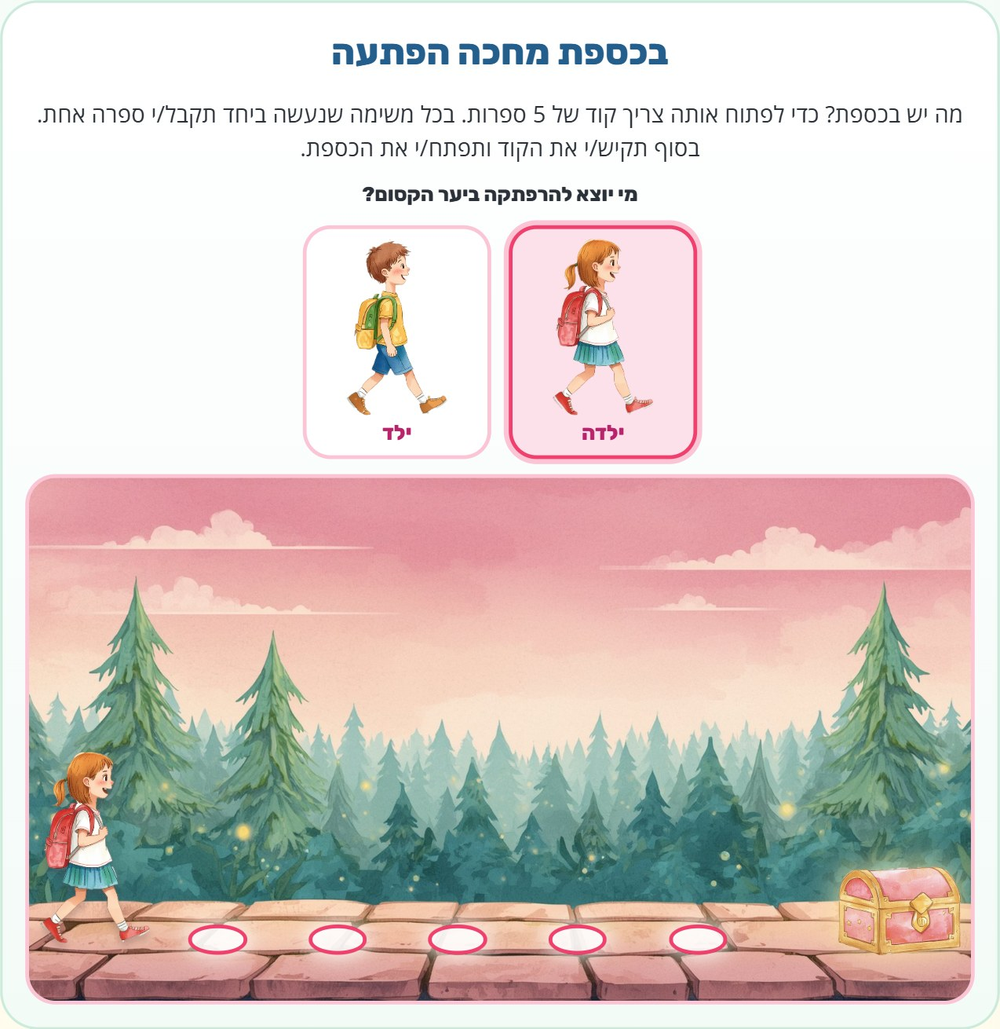
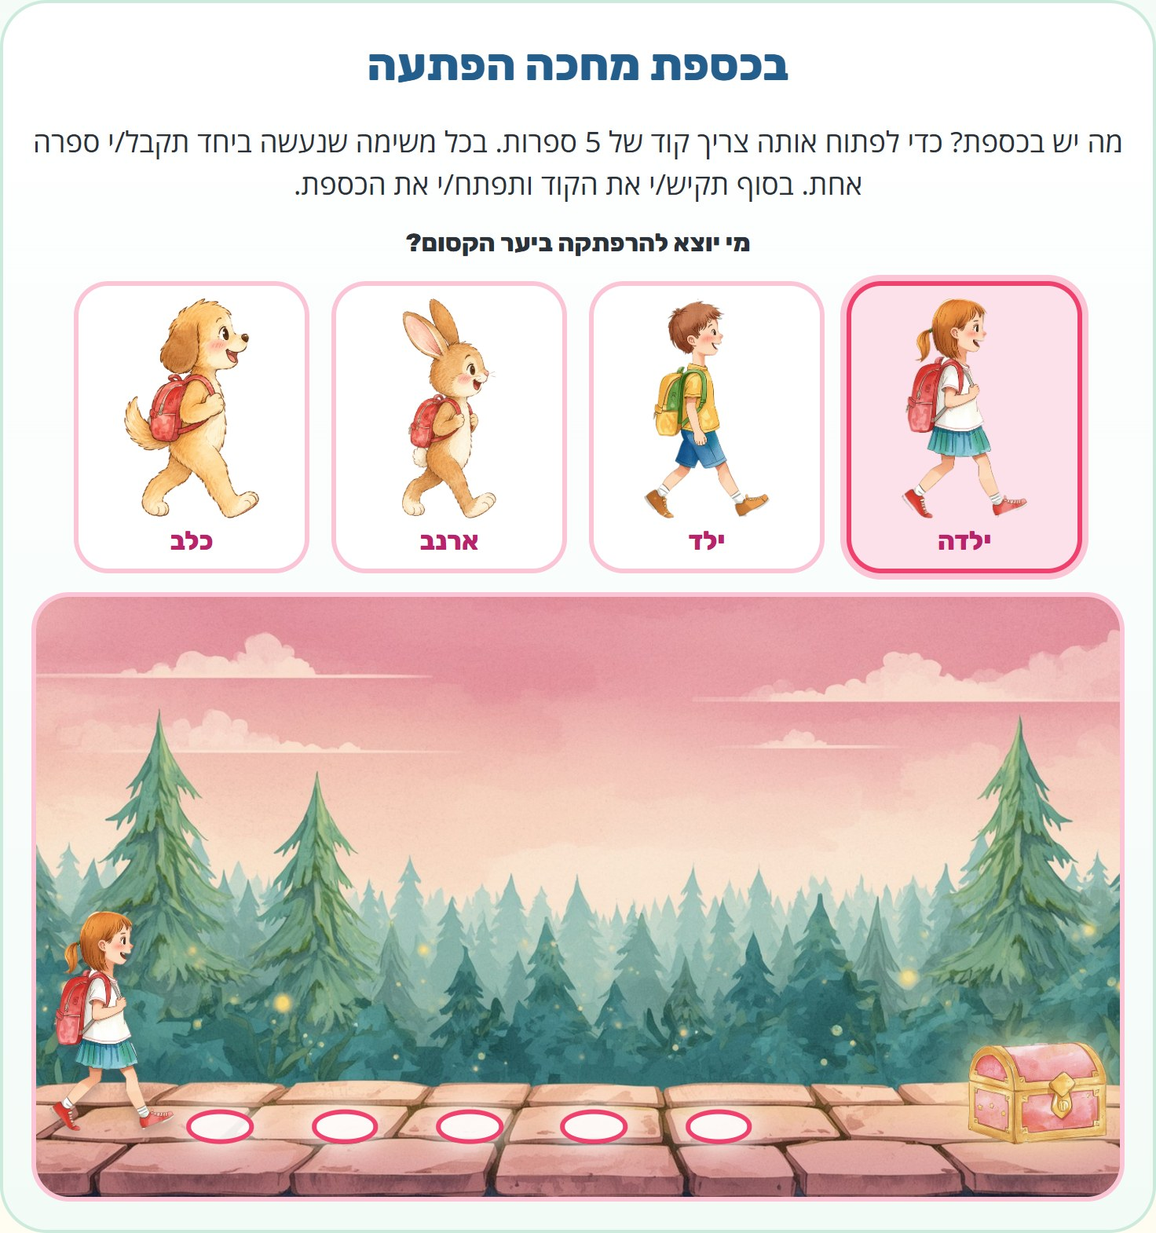
דף נחיתה מיפוי: תיבת אוצר עם קוד, מתנה וקונפטי בראש הדף, ארבע דמויות

Changed region(s): [[0.0, 0.1832, 0.9796, 0.9771], [0.0306, 0.0305, 0.9796, 0.1832], [0.0, 0.5802, 0.0306, 0.6107]]

diff --git a/mapping-landing/index.html b/mapping-landing/index.html
@@ -31,18 +31,32 @@ p{margin:0 0 12px}.wrap{max-width:1080px;margin:0 auto;padding:0 18px}.narrow{ma
 .faq details{background:#fff;border:2px solid var(--line);border-radius:16px;padding:12px 18px;margin-bottom:10px}.faq summary{font:800 18px Rubik,Arial;cursor:pointer}.faq details p{margin:8px 0 0}
 footer{text-align:center;font-size:14px;color:var(--soft);padding:20px 12px}
 .sticky{display:none}
-.adv{position:relative;direction:ltr;width:100%;aspect-ratio:4/3;container-type:inline-size;overflow:hidden;border-radius:24px;border:4px solid #fff;box-shadow:0 0 0 3px var(--line),0 10px 26px rgba(184,35,107,.16);background:url(img/forest.jpg) center bottom/cover no-repeat}
-.adv i{position:absolute;font-style:normal;transform:translateX(-50%)}
-.adv .st{bottom:7%;width:9%;aspect-ratio:2/1;border-radius:50%;background:rgba(255,255,255,.9);border:3px solid var(--f);box-shadow:0 0 12px 4px rgba(255,255,255,.7)}.adv .st.on{background:#FBC5D6}
-.adv .dg{bottom:52%;width:10cqw;height:10cqw;display:grid;place-items:center;border-radius:24%;background:#fff;border:3px solid var(--f);box-shadow:0 5px 12px rgba(184,35,107,.35);font:800 6cqw Rubik,Arial;color:var(--deep);opacity:0;transform:translateX(-50%) scale(.2);transition:opacity .3s,transform .5s cubic-bezier(.3,1.6,.5,1)}
-.adv .dg.on{opacity:1;transform:translateX(-50%) scale(1)}
-.adv .achest{position:absolute;left:87%;bottom:7%;width:23%;transform:translateX(-50%);filter:drop-shadow(0 0 12px rgba(255,236,170,.95))}
-.adv .akid{position:absolute;bottom:8.5%;height:40%;width:auto;transform:translateX(-50%);transform-origin:50% 100%;transition:left 1.3s linear;filter:drop-shadow(0 4px 3px rgba(60,40,50,.3))}
-.adv .akid.walk{animation:wk .45s ease-in-out infinite}
-@keyframes wk{0%,100%{transform:translateX(-50%) rotate(-3deg)}50%{transform:translateX(-50%) translateY(-5%) rotate(3deg)}}
+.vh{position:relative;direction:ltr;width:100%;aspect-ratio:4/3;container-type:inline-size;overflow:hidden;border-radius:24px;border:4px solid #fff;box-shadow:0 0 0 3px var(--line),0 10px 26px rgba(184,35,107,.16);background:linear-gradient(180deg,rgba(255,255,255,.35),rgba(254,246,245,.55)),url(img/forest.jpg) center bottom/cover no-repeat}
+.vh i{font-style:normal}
+.vsl{position:absolute;top:4%;left:0;right:0;display:flex;justify-content:center;gap:1.8cqw;z-index:3;transition:opacity .4s}.vh.open .vsl{opacity:0}
+.vsl b{width:9.5cqw;height:11cqw;display:grid;place-items:center;border-radius:2.4cqw;background:rgba(255,255,255,.93);border:3px solid var(--line);font:800 6.4cqw Rubik,Arial;color:var(--deep);transition:transform .25s,background .25s}
+.vsl b.on{border-color:var(--f);background:#FDE1EA;transform:scale(1.08)}.vsl.win b{background:#d8f3e6;border-color:#59b98e;color:#1e6b4b}
+.vbox2{position:absolute;left:5%;bottom:6%;width:48%;height:66%;transition:left .7s ease,width .7s ease,height .7s ease}
+.vch{position:absolute;left:50%;bottom:0;width:100%;max-height:100%;object-fit:contain;object-position:center bottom;transform:translateX(-50%);filter:drop-shadow(0 0 14px rgba(255,236,170,.95))}
+.vgf{position:absolute;left:50%;bottom:24%;width:34%;opacity:0;transform:translate(-50%,0) scale(.15);filter:drop-shadow(0 8px 10px rgba(184,35,107,.35))}
+.vkp{position:absolute;right:5%;bottom:6%;width:36%;display:grid;grid-template-columns:repeat(3,1fr);gap:1.6cqw;padding:2.2cqw;border-radius:4cqw;background:rgba(255,255,255,.93);border:3px solid var(--line);transition:opacity .4s,transform .5s}
+.vkp .k{height:9.6cqw;display:grid;place-items:center;border-radius:2.4cqw;background:#fff;border:2px solid var(--line);font:800 5cqw Rubik,Arial;color:var(--deep);transition:transform .15s,background .15s}
+.vkp .k.ok{background:var(--f);border-color:var(--f);color:#fff}.vkp .k.del{background:#e8f7f0;border-color:#9fe3c8;color:#2a7f62}
+.vkp .k.tap{background:#FBC5D6;transform:scale(.86);box-shadow:0 0 0 1.4cqw rgba(239,64,110,.3)}
+.vh.open .vkp{opacity:0;transform:translateX(30%)}
+.vh.open .vbox2{left:14%;width:72%;height:70%}
+.vh.open .vch{animation:vpop .8s cubic-bezier(.3,1.5,.5,1) both}
+@keyframes vpop{0%{transform:translateX(-50%) scale(.75) rotate(-4deg)}100%{transform:translateX(-50%) scale(1)}}
+.vh.open .vgf{animation:vgf 1.2s .35s cubic-bezier(.3,1.35,.5,1) forwards}
+@keyframes vgf{0%{opacity:0;transform:translate(-50%,0) scale(.15)}25%{opacity:1}100%{opacity:1;transform:translate(-50%,-78%) scale(1) rotate(-5deg)}}
+.vh.shake .vbox2{animation:vsh .45s ease-in-out}
+@keyframes vsh{0%,100%{transform:rotate(0)}20%{transform:rotate(-4deg)}40%{transform:rotate(4deg)}60%{transform:rotate(-3deg)}80%{transform:rotate(3deg)}}
+.vcf{position:absolute;inset:0;pointer-events:none;z-index:4}
+.vcf i{position:absolute;top:-6%;width:1.8cqw;height:3cqw;border-radius:.4cqw;animation:vfall linear forwards}
+@keyframes vfall{to{top:106%;transform:rotate(700deg)}}
 .wide{max-width:760px;margin:20px auto 0}.appx{margin-top:34px}.tall{max-width:560px;margin:10px auto 0}
 .bon p{margin-bottom:10px}.games{display:grid;grid-template-columns:repeat(3,1fr);gap:10px;margin-top:8px}.games img{width:100%;aspect-ratio:4/3;object-fit:contain;background:#fff;border:2px solid var(--line);border-radius:12px;display:block}
-@media(max-width:820px){body{font-size:17px;padding-bottom:76px}.band{padding:28px 0}.heroGrid{grid-template-columns:1fr;grid-template-areas:"t" "i" "x";gap:12px;text-align:center}.g2,.trio{grid-template-columns:1fr}
+@media(max-width:820px){.vh{max-width:520px;margin:0 auto}body{font-size:17px;padding-bottom:76px}.band{padding:28px 0}.heroGrid{grid-template-columns:1fr;grid-template-areas:"t" "i" "x";gap:12px;text-align:center}.g2,.trio{grid-template-columns:1fr}
 .logo{height:58px}h1{font-size:26px}
 .sticky{display:block;position:fixed;bottom:10px;left:16px;right:16px;z-index:9;text-align:center;text-decoration:none;color:#fff;font:800 18px Rubik,Arial;background:linear-gradient(135deg,var(--f),var(--f2));border-radius:40px;padding:12px;box-shadow:0 6px 18px rgba(184,35,107,.35);transition:opacity .25s}.sticky.off{opacity:0;pointer-events:none}}
 </style></head><body>
@@ -53,7 +67,7 @@ footer{text-align:center;font-size:14px;color:var(--soft);padding:20px 12px}
    <span class="badge" data-k="tc91bb495f9">לגננות, למורות ולנשות טיפול</span>
    <h1 data-k="t6e530d13c4">כלי מיפוי דיגיטלי ומשחקי שיעזור לך לבדוק בקלות את רמת המוכנות של ילדי גן לקראת כיתה א' ולהעביר את המידע בצורה מקצועית להורים</h1>
   </div>
-  <div class="heroImg"><div class="adv" role="img" aria-label="הילדה הולכת בשביל ביער הקסום, אוספת ספרות ומגיעה אל תיבת האוצר"><i class="st on" style="left:14%"></i><i class="dg on" style="left:14%">4</i><i class="st on" style="left:28%"></i><i class="dg on" style="left:28%">8</i><i class="st" style="left:42%"></i><i class="dg" style="left:42%">2</i><i class="st" style="left:56%"></i><i class="dg" style="left:56%">6</i><i class="st" style="left:70%"></i><i class="dg" style="left:70%">1</i><img class="achest" src="img/chest-closed.png" alt=""><img class="akid" src="img/hero-girl.png" alt="" style="left:28%"></div></div>
+  <div class="heroImg"><div class="vh" role="img" aria-label="מקישים קוד בן 5 ספרות, תיבת האוצר נפתחת, ויוצאת ממנה מתנה עם קונפטי"><div class="vsl"><b></b><b></b><b></b><b></b><b></b></div><div class="vbox2"><img class="vch" src="img/chest-closed.png" alt=""><img class="vgf" src="img/hgift.png" alt=""></div><div class="vkp"><i class="k" data-d="1">1</i><i class="k" data-d="2">2</i><i class="k" data-d="3">3</i><i class="k" data-d="4">4</i><i class="k" data-d="5">5</i><i class="k" data-d="6">6</i><i class="k" data-d="7">7</i><i class="k" data-d="8">8</i><i class="k" data-d="9">9</i><i class="k del">⌫</i><i class="k" data-d="0">0</i><i class="k ok">✓</i></div><div class="vcf"></div></div></div>
   <div class="heroTxt">
    <p class="lead" data-k="t810f96696a">שקופית אחרי שקופית: מה להגיד לילד, מה לסמן, ובסוף דוח מסודר ונספחים שאפשר להגיש להורים.</p>
    <span class="gift" data-k="tcaffb30198">בונוס: מיפוי דיגיטלי לכיתות א-ב-ג</span><br>
@@ -85,7 +99,7 @@ footer{text-align:center;font-size:14px;color:var(--soft);padding:20px 12px}
  <img class="ico" src="img/key.png" alt=""><h2 data-k="t630fdacad6">בשביל הילד זו הרפתקה ובסופה - הכספת</h2>
  <p data-k="t6841c0799e">בתחילת המפגש מחכה לילד כספת עם הפתעה. על כל משימה שעשיתם יחד הוא מתקדם עם הדמות שבחר אל עבר ספרה חדשה לכספת, עד שהדמות מסיימת את ההרפתקה ובסופה - הוא יקיש את הקוד והכספת עם ההפתעה תפתח!</p>
  <p class="keyline" data-k="t75b9f796c8">בזמן שהילד מתקדם אל עבר הספרה הבאה, את רואה בדיוק מה הוא יודע.</p>
- <div class="wide"><figure class="shot"><img src="img/journey.jpg" alt="בחירת דמות והשביל ביער הקסום בתוך כלי המיפוי" width="1274" height="1310"><figcaption data-k="td22b355863">כך זה נראה בכלי: הילד בוחר דמות ויוצא לדרך</figcaption></figure></div>
+ <div class="wide"><figure class="shot"><img src="img/journey.jpg" alt="בחירת דמות והשביל ביער הקסום בתוך כלי המיפוי" width="1472" height="1570"><figcaption data-k="td22b355863">כך זה נראה בכלי: הילד בוחר דמות ויוצא לדרך</figcaption></figure></div>
 </div></section>
 
 <section class="band white"><div class="wrap">
@@ -172,14 +186,18 @@ footer{text-align:center;font-size:14px;color:var(--soft);padding:20px 12px}
 <footer data-k="tf6c3a37e2c">כל הזכויות שמורות לחן קלימיאן | לדבר עם ילדים</footer>
 <a class="sticky" href="#offer" data-k="td187ba4f41">אני רוצה את כלי המיפוי</a>
 <script>
-/* הנפשת ההדגמה: הדמות הולכת בשביל, אוספת ספרות, והתיבה נפתחת */
-(function(){var a=document.querySelector('.adv');if(!a||matchMedia('(prefers-reduced-motion: reduce)').matches)return;
-var k=a.querySelector('.akid'),c=a.querySelector('.achest'),st=a.querySelectorAll('.st'),dg=a.querySelectorAll('.dg'),i;
-function set(x,go){k.style.transition=go?'':'none';k.style.left=x;k.classList.toggle('walk',!!go)}
-function reset(){st.forEach(function(e){e.classList.remove('on')});dg.forEach(function(e){e.classList.remove('on')});c.src='img/chest-closed.png';set('8%',false);i=0;setTimeout(next,500)}
-function next(){if(i>=st.length){set('72%',true);setTimeout(function(){k.classList.remove('walk');c.src='img/chest-open.png';setTimeout(reset,2800)},1350);return}
-set(st[i].style.left,true);setTimeout(function(){k.classList.remove('walk');st[i].classList.add('on');dg[i].classList.add('on');i++;setTimeout(next,800)},1350)}
-new Image().src='img/chest-open.png';reset()})();
+/* הנפשת הפתיחה: מקישים קוד בן 5 ספרות, התיבה נפתחת, יוצאת מתנה וקונפטי. בלי סאונד */
+(function(){var a=document.querySelector('.vh');if(!a)return;
+var sl=a.querySelector('.vsl'),box=sl.children,ch=a.querySelector('.vch'),cf=a.querySelector('.vcf'),code=[2,4,8,1,6],i;  /* ספרות להדגמה בלבד, לא הקוד של הכלי */
+new Image().src='img/chest-open.png';
+function key(s){var k=a.querySelector(s);k.classList.add('tap');setTimeout(function(){k.classList.remove('tap')},280)}
+function reset(){a.classList.remove('open','shake');sl.classList.remove('win');cf.textContent='';ch.src='img/chest-closed.png';[].forEach.call(box,function(b){b.textContent='';b.className=''});i=0;setTimeout(next,900)}
+function next(){if(i<5){key('.k[data-d="'+code[i]+'"]');box[i].textContent=code[i];box[i].className='on';i++;setTimeout(next,620);return}
+key('.k.ok');setTimeout(function(){sl.classList.add('win');a.classList.add('shake');setTimeout(open,550)},300)}
+function open(){a.classList.remove('shake');ch.src='img/chest-open.png';a.classList.add('open');setTimeout(party,400);setTimeout(reset,5200)}
+function party(){var c=['#EF406E','#FBC5D6','#9fe3c8','#9ad7f5','#ffd966','#c9a7f0'],h='';for(var n=0;n<70;n++)h+='<i style="left:'+Math.random()*100+'%;background:'+c[n%6]+';animation-delay:'+(Math.random()*1.4).toFixed(2)+'s;animation-duration:'+(1.8+Math.random()*1.6).toFixed(2)+'s"></i>';cf.innerHTML=h}
+if(matchMedia('(prefers-reduced-motion: reduce)').matches){[].forEach.call(box,function(b,n){b.textContent=code[n];b.className='on'});ch.src='img/chest-open.png';a.classList.add('open');return}
+reset()})();
 var b=document.getElementById('buy');b.onclick=function(){document.getElementById('buynote').hidden=false};
 var s=document.querySelector('.sticky'),seen=new Set();
 var io=new IntersectionObserver(function(es){es.forEach(function(e){e.isIntersecting?seen.add(e.target):seen.delete(e.target)});upd()});

diff --git a/mapping-landing/build.py b/mapping-landing/build.py
@@ -27,11 +27,12 @@ def ico(n):
 def cta(t='אני רוצה את כלי המיפוי'):
     return f'<a class="btn" href="#offer">{t}</a>'
 
-def adv():
-    xs = [14, 28, 42, 56, 70]   # תחנות בשביל, משמאל לימין
-    d = [4, 8, 2, 6, 1]         # ספרות להדגמה בלבד, לא הקוד של הכלי
-    st = ''.join(f'<i class="st{" on" if i < 2 else ""}" style="left:{x}%"></i><i class="dg{" on" if i < 2 else ""}" style="left:{x}%">{d[i]}</i>' for i, x in enumerate(xs))
-    return f'<div class="adv" role="img" aria-label="הילדה הולכת בשביל ביער הקסום, אוספת ספרות ומגיעה אל תיבת האוצר">{st}<img class="achest" src="img/chest-closed.png" alt=""><img class="akid" src="img/hero-girl.png" alt="" style="left:28%"></div>'
+def vault():
+    keys = ''.join(f'<i class="k" data-d="{n}">{n}</i>' for n in [1, 2, 3, 4, 5, 6, 7, 8, 9])
+    keys += '<i class="k del">⌫</i><i class="k" data-d="0">0</i><i class="k ok">✓</i>'
+    return ('<div class="vh" role="img" aria-label="מקישים קוד בן 5 ספרות, תיבת האוצר נפתחת, ויוצאת ממנה מתנה עם קונפטי">'
+            f'<div class="vsl">{"<b></b>" * 5}</div><div class="vbox2"><img class="vch" src="img/chest-closed.png" alt=""><img class="vgf" src="img/hgift.png" alt=""></div>'
+            f'<div class="vkp">{keys}</div><div class="vcf"></div></div>')
 
 def step(i, t, p):
     return f'<div class="step"><span class="num">{i}</span><div><h3>{t}</h3><p>{p}</p></div></div>'
@@ -54,7 +55,7 @@ body = f'''
    <span class="badge">לגננות, למורות ולנשות טיפול</span>
    <h1>כלי מיפוי שיעזור לך לבדוק את רמת המוכנות של ילדי הגן לקראת כיתה א' ולהעביר את המידע בצורה מקצועית להורים</h1>
   </div>
-  <div class="heroImg">{adv()}</div>
+  <div class="heroImg">{vault()}</div>
   <div class="heroTxt">
    <p class="lead">שקופית אחרי שקופית: מה להגיד לילד, מה לסמן, ובסוף דוח מסודר שאפשר להגיש להורים.</p>
    <span class="gift">ובבונוס: מיפוי לכיתות א-ב-ג</span><br>
@@ -207,31 +208,49 @@ p{margin:0 0 12px}.wrap{max-width:1080px;margin:0 auto;padding:0 18px}.narrow{ma
 .faq details{background:#fff;border:2px solid var(--line);border-radius:16px;padding:12px 18px;margin-bottom:10px}.faq summary{font:800 18px Rubik,Arial;cursor:pointer}.faq details p{margin:8px 0 0}
 footer{text-align:center;font-size:14px;color:var(--soft);padding:20px 12px}
 .sticky{display:none}
-.adv{position:relative;direction:ltr;width:100%;aspect-ratio:4/3;container-type:inline-size;overflow:hidden;border-radius:24px;border:4px solid #fff;box-shadow:0 0 0 3px var(--line),0 10px 26px rgba(184,35,107,.16);background:url(img/forest.jpg) center bottom/cover no-repeat}
-.adv i{position:absolute;font-style:normal;transform:translateX(-50%)}
-.adv .st{bottom:7%;width:9%;aspect-ratio:2/1;border-radius:50%;background:rgba(255,255,255,.9);border:3px solid var(--f);box-shadow:0 0 12px 4px rgba(255,255,255,.7)}.adv .st.on{background:#FBC5D6}
-.adv .dg{bottom:52%;width:10cqw;height:10cqw;display:grid;place-items:center;border-radius:24%;background:#fff;border:3px solid var(--f);box-shadow:0 5px 12px rgba(184,35,107,.35);font:800 6cqw Rubik,Arial;color:var(--deep);opacity:0;transform:translateX(-50%) scale(.2);transition:opacity .3s,transform .5s cubic-bezier(.3,1.6,.5,1)}
-.adv .dg.on{opacity:1;transform:translateX(-50%) scale(1)}
-.adv .achest{position:absolute;left:87%;bottom:7%;width:23%;transform:translateX(-50%);filter:drop-shadow(0 0 12px rgba(255,236,170,.95))}
-.adv .akid{position:absolute;bottom:8.5%;height:40%;width:auto;transform:translateX(-50%);transform-origin:50% 100%;transition:left 1.3s linear;filter:drop-shadow(0 4px 3px rgba(60,40,50,.3))}
-.adv .akid.walk{animation:wk .45s ease-in-out infinite}
-@keyframes wk{0%,100%{transform:translateX(-50%) rotate(-3deg)}50%{transform:translateX(-50%) translateY(-5%) rotate(3deg)}}
+.vh{position:relative;direction:ltr;width:100%;aspect-ratio:4/3;container-type:inline-size;overflow:hidden;border-radius:24px;border:4px solid #fff;box-shadow:0 0 0 3px var(--line),0 10px 26px rgba(184,35,107,.16);background:linear-gradient(180deg,rgba(255,255,255,.35),rgba(254,246,245,.55)),url(img/forest.jpg) center bottom/cover no-repeat}
+.vh i{font-style:normal}
+.vsl{position:absolute;top:4%;left:0;right:0;display:flex;justify-content:center;gap:1.8cqw;z-index:3;transition:opacity .4s}.vh.open .vsl{opacity:0}
+.vsl b{width:9.5cqw;height:11cqw;display:grid;place-items:center;border-radius:2.4cqw;background:rgba(255,255,255,.93);border:3px solid var(--line);font:800 6.4cqw Rubik,Arial;color:var(--deep);transition:transform .25s,background .25s}
+.vsl b.on{border-color:var(--f);background:#FDE1EA;transform:scale(1.08)}.vsl.win b{background:#d8f3e6;border-color:#59b98e;color:#1e6b4b}
+.vbox2{position:absolute;left:5%;bottom:6%;width:48%;height:66%;transition:left .7s ease,width .7s ease,height .7s ease}
+.vch{position:absolute;left:50%;bottom:0;width:100%;max-height:100%;object-fit:contain;object-position:center bottom;transform:translateX(-50%);filter:drop-shadow(0 0 14px rgba(255,236,170,.95))}
+.vgf{position:absolute;left:50%;bottom:24%;width:34%;opacity:0;transform:translate(-50%,0) scale(.15);filter:drop-shadow(0 8px 10px rgba(184,35,107,.35))}
+.vkp{position:absolute;right:5%;bottom:6%;width:36%;display:grid;grid-template-columns:repeat(3,1fr);gap:1.6cqw;padding:2.2cqw;border-radius:4cqw;background:rgba(255,255,255,.93);border:3px solid var(--line);transition:opacity .4s,transform .5s}
+.vkp .k{height:9.6cqw;display:grid;place-items:center;border-radius:2.4cqw;background:#fff;border:2px solid var(--line);font:800 5cqw Rubik,Arial;color:var(--deep);transition:transform .15s,background .15s}
+.vkp .k.ok{background:var(--f);border-color:var(--f);color:#fff}.vkp .k.del{background:#e8f7f0;border-color:#9fe3c8;color:#2a7f62}
+.vkp .k.tap{background:#FBC5D6;transform:scale(.86);box-shadow:0 0 0 1.4cqw rgba(239,64,110,.3)}
+.vh.open .vkp{opacity:0;transform:translateX(30%)}
+.vh.open .vbox2{left:14%;width:72%;height:70%}
+.vh.open .vch{animation:vpop .8s cubic-bezier(.3,1.5,.5,1) both}
+@keyframes vpop{0%{transform:translateX(-50%) scale(.75) rotate(-4deg)}100%{transform:translateX(-50%) scale(1)}}
+.vh.open .vgf{animation:vgf 1.2s .35s cubic-bezier(.3,1.35,.5,1) forwards}
+@keyframes vgf{0%{opacity:0;transform:translate(-50%,0) scale(.15)}25%{opacity:1}100%{opacity:1;transform:translate(-50%,-78%) scale(1) rotate(-5deg)}}
+.vh.shake .vbox2{animation:vsh .45s ease-in-out}
+@keyframes vsh{0%,100%{transform:rotate(0)}20%{transform:rotate(-4deg)}40%{transform:rotate(4deg)}60%{transform:rotate(-3deg)}80%{transform:rotate(3deg)}}
+.vcf{position:absolute;inset:0;pointer-events:none;z-index:4}
+.vcf i{position:absolute;top:-6%;width:1.8cqw;height:3cqw;border-radius:.4cqw;animation:vfall linear forwards}
+@keyframes vfall{to{top:106%;transform:rotate(700deg)}}
 .wide{max-width:760px;margin:20px auto 0}.appx{margin-top:34px}.tall{max-width:560px;margin:10px auto 0}
 .bon p{margin-bottom:10px}.games{display:grid;grid-template-columns:repeat(3,1fr);gap:10px;margin-top:8px}.games img{width:100%;aspect-ratio:4/3;object-fit:contain;background:#fff;border:2px solid var(--line);border-radius:12px;display:block}
-@media(max-width:820px){body{font-size:17px;padding-bottom:76px}.band{padding:28px 0}.heroGrid{grid-template-columns:1fr;grid-template-areas:"t" "i" "x";gap:12px;text-align:center}.g2,.trio{grid-template-columns:1fr}
+@media(max-width:820px){.vh{max-width:520px;margin:0 auto}body{font-size:17px;padding-bottom:76px}.band{padding:28px 0}.heroGrid{grid-template-columns:1fr;grid-template-areas:"t" "i" "x";gap:12px;text-align:center}.g2,.trio{grid-template-columns:1fr}
 .logo{height:58px}h1{font-size:26px}
 .sticky{display:block;position:fixed;bottom:10px;left:16px;right:16px;z-index:9;text-align:center;text-decoration:none;color:#fff;font:800 18px Rubik,Arial;background:linear-gradient(135deg,var(--f),var(--f2));border-radius:40px;padding:12px;box-shadow:0 6px 18px rgba(184,35,107,.35);transition:opacity .25s}.sticky.off{opacity:0;pointer-events:none}}
 '''
 
 JS = '''
-/* הנפשת ההדגמה: הדמות הולכת בשביל, אוספת ספרות, והתיבה נפתחת */
-(function(){var a=document.querySelector('.adv');if(!a||matchMedia('(prefers-reduced-motion: reduce)').matches)return;
-var k=a.querySelector('.akid'),c=a.querySelector('.achest'),st=a.querySelectorAll('.st'),dg=a.querySelectorAll('.dg'),i;
-function set(x,go){k.style.transition=go?'':'none';k.style.left=x;k.classList.toggle('walk',!!go)}
-function reset(){st.forEach(function(e){e.classList.remove('on')});dg.forEach(function(e){e.classList.remove('on')});c.src='img/chest-closed.png';set('8%',false);i=0;setTimeout(next,500)}
-function next(){if(i>=st.length){set('72%',true);setTimeout(function(){k.classList.remove('walk');c.src='img/chest-open.png';setTimeout(reset,2800)},1350);return}
-set(st[i].style.left,true);setTimeout(function(){k.classList.remove('walk');st[i].classList.add('on');dg[i].classList.add('on');i++;setTimeout(next,800)},1350)}
-new Image().src='img/chest-open.png';reset()})();
+/* הנפשת הפתיחה: מקישים קוד בן 5 ספרות, התיבה נפתחת, יוצאת מתנה וקונפטי. בלי סאונד */
+(function(){var a=document.querySelector('.vh');if(!a)return;
+var sl=a.querySelector('.vsl'),box=sl.children,ch=a.querySelector('.vch'),cf=a.querySelector('.vcf'),code=[2,4,8,1,6],i;  /* ספרות להדגמה בלבד, לא הקוד של הכלי */
+new Image().src='img/chest-open.png';
+function key(s){var k=a.querySelector(s);k.classList.add('tap');setTimeout(function(){k.classList.remove('tap')},280)}
+function reset(){a.classList.remove('open','shake');sl.classList.remove('win');cf.textContent='';ch.src='img/chest-closed.png';[].forEach.call(box,function(b){b.textContent='';b.className=''});i=0;setTimeout(next,900)}
+function next(){if(i<5){key('.k[data-d="'+code[i]+'"]');box[i].textContent=code[i];box[i].className='on';i++;setTimeout(next,620);return}
+key('.k.ok');setTimeout(function(){sl.classList.add('win');a.classList.add('shake');setTimeout(open,550)},300)}
+function open(){a.classList.remove('shake');ch.src='img/chest-open.png';a.classList.add('open');setTimeout(party,400);setTimeout(reset,5200)}
+function party(){var c=['#EF406E','#FBC5D6','#9fe3c8','#9ad7f5','#ffd966','#c9a7f0'],h='';for(var n=0;n<70;n++)h+='<i style="left:'+Math.random()*100+'%;background:'+c[n%6]+';animation-delay:'+(Math.random()*1.4).toFixed(2)+'s;animation-duration:'+(1.8+Math.random()*1.6).toFixed(2)+'s"></i>';cf.innerHTML=h}
+if(matchMedia('(prefers-reduced-motion: reduce)').matches){[].forEach.call(box,function(b,n){b.textContent=code[n];b.className='on'});ch.src='img/chest-open.png';a.classList.add('open');return}
+reset()})();
 var b=document.getElementById('buy');b.onclick=function(){document.getElementById('buynote').hidden=false};
 var s=document.querySelector('.sticky'),seen=new Set();
 var io=new IntersectionObserver(function(es){es.forEach(function(e){e.isIntersecting?seen.add(e.target):seen.delete(e.target)});upd()});
